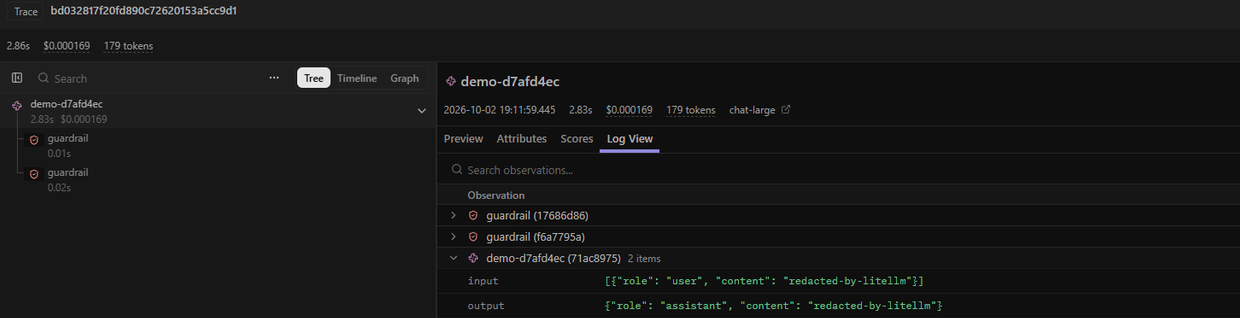
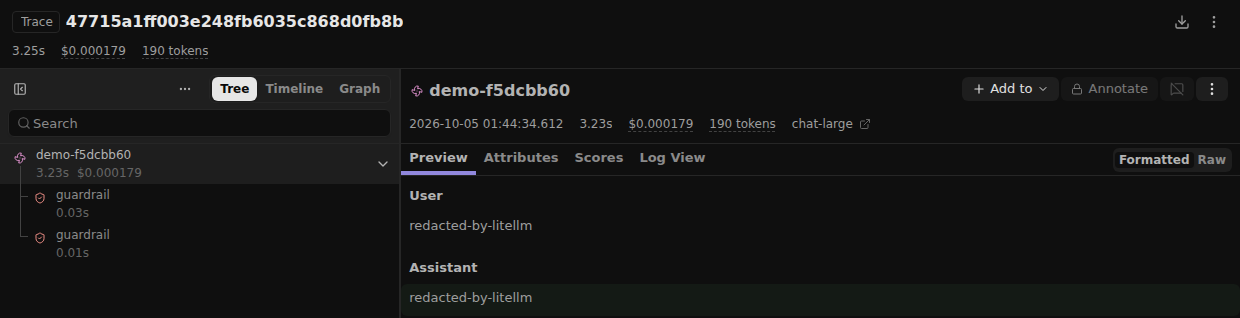
feat: customer service team for the demo (LAB-182)

diff --git a/tests/integration/test_pii_guardrail.py b/tests/integration/test_pii_guardrail.py
@@ -34,7 +34,7 @@ def test_the_prompt_reaches_the_model_with_markers_only(admin: httpx.Client):
 
 def test_the_answer_comes_back_with_the_real_values(team_client):
     mock = "Dossier de <PERSON_1>, <FR_ADDRESS_2>, virement sur <IBAN_CODE_3>, joignable au <PHONE_NUMBER_4>."
-    assert answer(team_client("baux"), user(DEMO), mock) == (
+    assert answer(team_client("support"), user(DEMO), mock) == (
         "Dossier de Marie Dupont, 12 rue de la Paix, 75002 Paris, virement sur FR76 3000 6000 0112 3456 7890 189, "
         "joignable au 06 12 34 56 78."
     )
@@ -42,15 +42,15 @@ def test_the_answer_comes_back_with_the_real_values(team_client):
 
 def test_two_people_in_two_messages_get_two_markers(team_client):
     messages = [
-        {"role": "user", "content": "Le bailleur est Jean Martin."},
+        {"role": "user", "content": "Le client est Jean Martin."},
         {"role": "assistant", "content": "Noté."},
-        {"role": "user", "content": "La locataire est Marie Dupont."},
+        {"role": "user", "content": "La conseillère est Marie Dupont."},
     ]
-    assert answer(team_client("baux"), messages, "<PERSON_1> loue à <PERSON_2>.") == "Jean Martin loue à Marie Dupont."
+    assert answer(team_client("support"), messages, "<PERSON_1> écrit à <PERSON_2>.") == "Jean Martin écrit à Marie Dupont."
 
 
 def test_a_streamed_answer_is_put_back_too(team_client):
-    stream = team_client("baux").chat.completions.create(
+    stream = team_client("support").chat.completions.create(
         model="chat-large", messages=user(DEMO), stream=True, extra_body={"mock_response": "Bonjour <PERSON_1> !"}
     )
     chunks = [chunk.choices[0].delta.content or "" for chunk in stream if chunk.choices]
@@ -72,4 +72,4 @@ def test_an_opted_out_team_can_mask_one_request(team_client):
 def test_a_required_team_cannot_opt_out_from_the_request(team_client):
     # The opt-out is read from the team metadata written by the admin, not from what the caller sends.
     spoofed = {"user_api_key_team_metadata": {"opted_out_global_guardrails": ["pii-fr"]}, "disable_global_guardrails": True}
-    assert answer(team_client("baux"), user(DEMO), "Bonjour <PERSON_1> !", metadata=spoofed) == "Bonjour Marie Dupont !"
+    assert answer(team_client("support"), user(DEMO), "Bonjour <PERSON_1> !", metadata=spoofed) == "Bonjour Marie Dupont !"

diff --git a/tests/integration/test_tracing.py b/tests/integration/test_tracing.py
@@ -79,13 +79,13 @@ def test_a_call_is_traced_to_the_project_of_its_team(team_client, team, alias):
 def test_a_streamed_call_is_priced_too(team_client):
     # A streamed call's trace carries the model behind the alias instead of the alias: it must get the same price.
     name = unique_name()
-    stream = team_client("baux").chat.completions.create(
+    stream = team_client("support").chat.completions.create(
         model="chat-large", messages=user("Bonjour"), stream=True, stream_options={"include_usage": True},
         extra_body={"metadata": {"generation_name": name}, "mock_response": "Bonjour !"},
     )
     usage = [chunk.usage for chunk in stream if chunk.usage][-1]
 
-    [generation] = traced("baux", name)
+    [generation] = traced("support", name)
     input_price, output_price = 0.0000005, 0.000002  # chat-large in config/litellm.yaml
     expected = usage.prompt_tokens * input_price + usage.completion_tokens * output_price
     assert generation["totalCost"] == pytest.approx(expected)
@@ -109,13 +109,13 @@ def test_traces_hold_no_message_and_no_personal_data(team_client):
     # keep the messages. The guardrail's own observation keeps the types and positions of what it masked.
     name = unique_name()
     mock = "Dossier de <PERSON_1>, virement sur <IBAN_CODE_3>."
-    response = call(team_client("baux"), "chat-large", name, DEMO, mock_response=mock).parse()
+    response = call(team_client("support"), "chat-large", name, DEMO, mock_response=mock).parse()
     assert "Marie Dupont" in response.choices[0].message.content
 
-    [generation] = traced("baux", name)
+    [generation] = traced("support", name)
     assert "redacted-by-litellm" in generation["input"]
     assert "redacted-by-litellm" in generation["output"]
-    trace = observations("baux", traceId=generation["traceId"])
+    trace = observations("support", traceId=generation["traceId"])
     for value in ("Marie", "Dupont", "rue de la Paix", "FR76", "06 12 34 56 78"):
         assert value not in json.dumps(trace)
     [guardrail] = [observation for observation in trace if observation["type"] == "GUARDRAIL"]

diff --git a/scripts/demo.py b/scripts/demo.py
@@ -1,6 +1,6 @@
 """Demo of the gateway, as a client team sees it: `just demo`.
 
-The lease team `baux` sends a message full of personal data, the model only gets markers, the answer comes back with
+The customer service team `support` sends a message full of personal data, the model only gets markers, the answer comes back with
 the real values, and the trace in Langfuse holds the team, the tokens and the cost, but no personal data.
 """
 
@@ -21,19 +21,19 @@ load_dotenv(Path(__file__).resolve().parents[1] / ".env")
 
 GATEWAY_URL = f"http://localhost:{os.environ.get('LITELLM_PORT', '4000')}"
 LANGFUSE_URL = f"http://localhost:{os.environ.get('LANGFUSE_PORT', '3100')}"
-TEAM, ALIAS = "baux", "chat-large"
+TEAM, ALIAS = "support", "chat-large"
 MESSAGE = (
-    "Bonjour, je suis Marie Dupont, locataire au 12 rue de la Paix, 75002 Paris. "
-    "Mon loyer sera désormais prélevé sur le compte FR76 3000 6000 0112 3456 7890 189. "
+    "Bonjour, je suis Marie Dupont. Ma commande n'est jamais arrivée au 12 rue de la Paix, 75002 Paris. "
+    "Pouvez-vous me rembourser sur le compte FR76 3000 6000 0112 3456 7890 189 ? "
     "Vous pouvez me joindre au 06 12 34 56 78."
 )
 TASK = (
-    "Rédige un accusé de réception en deux phrases, "
-    "qui reprend le nom de la locataire, son adresse et le nouveau compte."
+    "Écris la réponse du service client en deux phrases courtes : "
+    "Bonjour suivi du nom de la cliente, puis la confirmation du remboursement sur son compte."
 )
 # Small models sometimes drop the angle brackets, and a marker that does not match stays in the answer.
 SYSTEM = (
-    "Tu es l'assistant d'une agence immobilière. "
+    "Tu es l'assistant d'un service client. "
     "Recopie les marqueurs entre chevrons tels quels, par exemple <PERSON_1>."
 )
 

diff --git a/tests/integration/helpers.py b/tests/integration/helpers.py
@@ -25,7 +25,7 @@ PRESIDIO_ANONYMIZER_URL = f"http://localhost:{os.environ.get('PRESIDIO_ANONYMIZE
 LANGFUSE_URL = f"http://localhost:{os.environ.get('LANGFUSE_PORT', '3100')}"
 LANGFUSE_KEYS = (os.environ["LANGFUSE_PUBLIC_KEY"], os.environ["LANGFUSE_SECRET_KEY"])
 LANGFUSE_ADMIN = (os.environ["LANGFUSE_ADMIN_EMAIL"], os.environ["LANGFUSE_ADMIN_PASSWORD"])
-TEAMS = ("f1", "mj", "baux")
+TEAMS = ("f1", "mj", "baux", "support")
 TEAM_KEYS = {team: os.environ[f"TEAM_KEY_{team.upper()}"] for team in TEAMS}
 # API keys of each Langfuse project: Gateway, then one per team (config/tenants.yaml).
 LANGFUSE_PROJECT_KEYS = {"gateway": LANGFUSE_KEYS} | {

diff --git a/tests/integration/test_routing.py b/tests/integration/test_routing.py
@@ -14,6 +14,6 @@ def test_chat_alias_answers(team_client, alias):
 
 
 def test_embed_alias_returns_768_dimensions(team_client):
-    response = team_client("f1").embeddings.create(model="embed", input="Le locataire a payé son loyer en retard.")
+    response = team_client("f1").embeddings.create(model="embed", input="Ma commande est arrivée avec trois jours de retard.")
 
     assert len(response.data[0].embedding) == 768

diff --git a/tests/integration/test_tenants.py b/tests/integration/test_tenants.py
@@ -12,6 +12,7 @@ TEAM_ACCESS = [
     ("f1", "chat-small", None),
     ("mj", "chat-small", "embed"),
     ("baux", "embed", "chat-small"),
+    ("support", "chat-small", "embed"),
 ]
 
 

diff --git a/README.md b/README.md
@@ -11,11 +11,11 @@ It runs on a laptop with Docker Compose and self-hosted models only: no prompt l
 
 ![Demo: a message with a name, an address, an IBAN and a phone number goes through the gateway; the model only gets markers, the answer comes back with the real values, and the Langfuse trace holds the cost but no personal data](docs/demo.gif)
 
-*`just demo`: the lease team sends a message full of personal data. Recorded on a laptop CPU, model `qwen2.5:1.5b`.*
+*`just demo`: a customer writes to the customer service team with her name, address, IBAN and phone number. Recorded on CPU (i7-14700KF), model `qwen2.5:1.5b`.*
 
-![The same call in Langfuse, as the lease team's lead sees it: duration, cost, tokens and alias, one span per guardrail run, and input and output redacted](docs/langfuse-trace.png)
+![The same call in Langfuse, as the customer service team's lead sees it: duration, cost, tokens and alias, one span per guardrail run, and input and output redacted](docs/langfuse-trace.png)
 
-*The same call in Langfuse, signed in as the lease team's lead: cost, tokens and alias are there, the messages are not.*
+*The same call in Langfuse, signed in as the customer service team's lead: cost, tokens and alias are there, the messages are not.*
 
 | At a glance | Measured |
 | -- | -- |
@@ -92,7 +92,7 @@ from openai import OpenAI
 
 client = OpenAI(base_url="http://localhost:4000", api_key="sk-local-dev-team-f1")
 client.chat.completions.create(model="chat-small", messages=[{"role": "user", "content": "Hello"}])
-client.embeddings.create(model="embed", input="Le locataire a payé son loyer en retard.")
+client.embeddings.create(model="embed", input="Ma commande est arrivée avec trois jours de retard.")
 ```
 
 Langfuse's UI is on `http://localhost:3100`: sign in with `LANGFUSE_ADMIN_EMAIL` and `LANGFUSE_ADMIN_PASSWORD` from `.env`, or as a team lead (see [Tracing with Langfuse](#tracing-with-langfuse)). To contribute, install the git hooks (requires [pre-commit](https://pre-commit.com/)) with `just hooks`, and run `just lint`. `just demo-record` records the GIF again from [`docs/demo.tape`](docs/demo.tape), with [vhs](https://github.com/charmbracelet/vhs), ttyd and ffmpeg installed. Run `just` alone to list every recipe.
@@ -108,7 +108,7 @@ Teams call **usage aliases**, never model names. The platform decides which mode
 | `embed` | Embeddings, multilingual (French included), 768 dimensions | `granite-embedding:278m` | `ollama` | 30 s |
 
 **Fallback.** If `chat-large` fails or times out, the gateway answers with `chat-small`. The response header `x-litellm-model-group` says which alias actually served the call, and the logs show `Falling back to model_group = chat-small`.
-Measured with `just test -k fallback` on a laptop CPU:
+Measured with `just test -k fallback` on CPU (i7-14700KF):
 
 | Situation | Time to answer through `chat-small` |
 | -- | -- |
@@ -137,10 +137,11 @@ The master key stays with the platform team: it creates teams and keys, and no a
 | `f1` | F1 strategy analyst (agent with RAG) | `chat-small`, `chat-large`, `embed` | $10 / 30 days | 60 requests and 100k tokens per minute | Optional |
 | `mj` | Game master assistant | `chat-small`, `chat-large` | $5 / 30 days | 30 requests and 50k tokens per minute | Optional |
 | `baux` | Lease compliance checker | `chat-large`, `embed` | $5 / 30 days | 20 requests and 50k tokens per minute | Required |
+| `support` | Customer service assistant | `chat-small`, `chat-large` | $5 / 30 days | 30 requests and 50k tokens per minute | Required |
 
 `just gateway-up` applies the file through [`scripts/bootstrap_tenants.py`](scripts/bootstrap_tenants.py), and `just tenants` applies it again after an edit, without restarting anything.
 The script is idempotent: it creates what is missing, updates what exists, and never deletes a team.
-Key values come from `.env` (`TEAM_KEY_F1`, `TEAM_KEY_MJ`, `TEAM_KEY_BAUX`); on the cluster they will come from a secret manager.
+Key values come from `.env` (`TEAM_KEY_F1`, `TEAM_KEY_MJ`, `TEAM_KEY_BAUX`, `TEAM_KEY_SUPPORT`); on the cluster they will come from a secret manager.
 
 A team that steps out of its limits gets an explicit error, and only that team is blocked:
 
@@ -157,19 +158,19 @@ The budget blocks the call right after the one that crossed it: LiteLLM counts s
 
 ## Personal data anonymization (Presidio)
 
-The gateway masks French personal data before the model sees it, and puts it back into the answer. On a `baux` request, as sent to Ollama (LiteLLM debug log):
+The gateway masks French personal data before the model sees it, and puts it back into the answer. On a `support` request, as sent to Ollama (LiteLLM debug log):
 
 | Step | Text |
 | -- | -- |
-| Caller sends | *Le bailleur est Jean Martin, domicilié au 12 rue de la Paix, 75002 Paris.* then *La locataire est Marie Dupont, IBAN FR76 3000 6000 0112 3456 7890 189. Jean Martin est-il joignable ?* |
-| Model receives | *Le bailleur est `<PERSON_1>`, domicilié au `<FR_ADDRESS_2>`.* then *La locataire est `<PERSON_3>`, `<IBAN_CODE_4>`. `<PERSON_1>` est-il joignable ?* |
+| Caller sends | *Le client est Jean Martin, domicilié au 12 rue de la Paix, 75002 Paris.* then *Sa commande est au nom de Marie Dupont, IBAN FR76 3000 6000 0112 3456 7890 189. Jean Martin est-il joignable ?* |
+| Model receives | *Le client est `<PERSON_1>`, domicilié au `<FR_ADDRESS_2>`.* then *Sa commande est au nom de `<PERSON_3>`, `<IBAN_CODE_4>`. `<PERSON_1>` est-il joignable ?* |
 | Caller gets | The model's answer, with every marker replaced by its value |
 
 ### The pii-fr guardrail
 
-The guardrail is LiteLLM's [Presidio integration](https://docs.litellm.ai/docs/proxy/guardrails/pii_masking_v2), set up in [`config/litellm.yaml`](config/litellm.yaml): French analysis, the entities to mask (names, places, addresses, emails, phones, IBAN, cards, crypto wallets, IP addresses, NIR, tax numbers) and a score threshold of 0.4. Dates stay in clear: a lease cannot be checked without them, and they identify nobody on their own.
+The guardrail is LiteLLM's [Presidio integration](https://docs.litellm.ai/docs/proxy/guardrails/pii_masking_v2), set up in [`config/litellm.yaml`](config/litellm.yaml): French analysis, the entities to mask (names, places, addresses, emails, phones, IBAN, cards, crypto wallets, IP addresses, NIR, tax numbers) and a score threshold of 0.4. Dates stay in clear: an order or a delivery cannot be handled without them, and they identify nobody on their own.
 
-**Two fixes to LiteLLM's markers.** LiteLLM 1.83.14 numbers markers in a way that breaks on real French text, as tested on this stack: overlapping detections (an address and the city inside it) were spliced into `FR_ADDRESS_2ON_4`, and two people in two messages both became `<PERSON_1>`, so the answer named the tenant as the landlord. Both bugs are open upstream ([#42130](https://github.com/BerriAI/litellm/issues/42130), [#31959](https://github.com/BerriAI/litellm/issues/31959)). [`guardrails/presidio_markers.py`](guardrails/presidio_markers.py) subclasses LiteLLM's guardrail and overrides only the method that builds the markers: overlapping detections are merged into one, and numbers run across the request. See [ADR-015](docs/adr/015-presidio-marker-fixes.md).
+**Two fixes to LiteLLM's markers.** LiteLLM 1.83.14 numbers markers in a way that breaks on real French text, as tested on this stack: overlapping detections (an address and the city inside it) were spliced into `FR_ADDRESS_2ON_4`, and two people in two messages both became `<PERSON_1>`, so the answer put one person's name in place of the other's. Both bugs are open upstream ([#42130](https://github.com/BerriAI/litellm/issues/42130), [#31959](https://github.com/BerriAI/litellm/issues/31959)). [`guardrails/presidio_markers.py`](guardrails/presidio_markers.py) subclasses LiteLLM's guardrail and overrides only the method that builds the markers: overlapping detections are merged into one, and numbers run across the request. See [ADR-015](docs/adr/015-presidio-marker-fixes.md).
 
 **Per team.** Assigning a guardrail to a team is a LiteLLM Enterprise feature, so the gateway uses what the open-source version offers: `pii-fr` runs on every request (`default_on`), and a team set to `pii_masking: optional` in `config/tenants.yaml` is opted out through its metadata, which only the admin API writes. A required team cannot opt out from the request: metadata sent by the caller is ignored.
 
@@ -275,7 +276,7 @@ A pattern alone is not enough when a check digit exists: a match whose key is wr
 | `CREDIT_CARD` | `CardRecognizer` | Presidio's card recognizer plus the Mastercard 2-series (2221 to 2720), which it misses | Luhn check digit |
 | `URL` | `UrlOutsideEmailRecognizer` | Presidio's URL recognizer | No longer reports the domain of an email address |
 
-Context words raise a score when they appear in the 5 words before a match: in a lease, *domiciliée 12 rue de la Paix, 75002 Paris* scores 0.95 instead of 0.6, and *joignable au 06 12 34 56 78* 0.75 instead of 0.4.
+Context words raise a score when they appear in the 5 words before a match: in a letter, *domiciliée 12 rue de la Paix, 75002 Paris* scores 0.95 instead of 0.6, and *joignable au 06 12 34 56 78* 0.75 instead of 0.4.
 The spaCy model still makes mistakes of its own, measured in the [benchmark](#how-well-it-works): it misses city names without context and sometimes labels an email or `FR76` as a place. French dates (*12 mars 1985*) are not detected either; the guardrail does not mask dates anyway.
 
 Memory of the Analyzer, measured with `docker stats` after 30 requests:
@@ -287,7 +288,7 @@ Memory of the Analyzer, measured with `docker stats` after 30 requests:
 | `fr_core_news_lg` + `en_core_web_lg` (this stack) | 1.6 GiB |
 
 English costs 570 MiB more; it stays so that prompts in English, such as F1 data, are still analyzed. The container is limited to 2 GiB.
-It starts in about 6 seconds once the image is built, and analyzes a 30-word French sentence in about 6 ms on a laptop CPU.
+It starts in about 6 seconds once the image is built, and analyzes a 30-word French sentence in about 6 ms on CPU (i7-14700KF).
 
 ## Tracing with Langfuse
 
@@ -328,7 +329,7 @@ LiteLLM traces every call, successful or failed (level `ERROR`), a few seconds a
 
 | Field | Example |
 | -- | -- |
-| Team and key | `user_api_key_team_id: baux`, `user_api_key_team_alias: Lease compliance checker`, `user_api_key_alias: baux-app` |
+| Team and key | `user_api_key_team_id: support`, `user_api_key_team_alias: Customer service assistant`, `user_api_key_alias: support-app` |
 | Alias (the model of the trace) | `chat-large`; a streamed call or a fallback shows the model behind it instead, `qwen2.5:1.5b` |
 | Tokens | `input: 36, output: 3` |
 | Cost | `$0.000045`, the internal price of the alias (ADR-014): the same amount LiteLLM charged the team's budget and returned in `x-litellm-response-cost` |
@@ -336,7 +337,7 @@ LiteLLM traces every call, successful or failed (level `ERROR`), a few seconds a
 | What the guardrail masked | `masked_entity_count: {PERSON: 2, FR_ADDRESS: 1, IBAN_CODE: 1, PHONE_NUMBER: 1}`, types and positions only |
 | Messages | `redacted-by-litellm` |
 
-**No messages in the traces.** The `pii-fr` guardrail puts the real values back into the answer before LiteLLM logs it, so the first trace of a lease held `Bonjour Marie Dupont` in clear. And a team that opted out of masking can still send personal data. `turn_off_message_logging` in `config/litellm.yaml` removes the prompts and answers from every trace. LiteLLM's switch per team or per request is ignored by `langfuse_otel` in 1.83.14, so the setting is global. A caller can still name its calls with `metadata.generation_name` and group them with `metadata.session_id`.
+**No messages in the traces.** The `pii-fr` guardrail puts the real values back into the answer before LiteLLM logs it, so the very first trace held `Bonjour Marie Dupont` in clear. And a team that opted out of masking can still send personal data. `turn_off_message_logging` in `config/litellm.yaml` removes the prompts and answers from every trace. LiteLLM's switch per team or per request is ignored by `langfuse_otel` in 1.83.14, so the setting is global. A caller can still name its calls with `metadata.generation_name` and group them with `metadata.session_id`.
 
 **Cost.** Langfuse prices the tokens itself, from a price per alias in each project. `scripts/bootstrap_langfuse.py` creates those prices from the internal prices of `config/litellm.yaml`, so a price changes in one place: edit the file, then run `just gateway-reload` and `just tenants`. Each price also matches the model behind its alias, which streamed and fallback calls carry. After the whole test suite, the cost summed per project in Langfuse matched each team's spend in LiteLLM to the last digit ($0.00022764 for `baux`).
 
@@ -347,7 +348,7 @@ Each client team has its own organization and project in Langfuse, and LiteLLM s
 | Account | Sees | Role |
 | -- | -- | -- |
 | `LANGFUSE_ADMIN_EMAIL` (platform team) | Gateway and every team's project | Owner |
-| `f1-lead@llmops.local`, `mj-lead@llmops.local`, `baux-lead@llmops.local` | Its team's project only | Viewer |
+| `f1-lead@llmops.local`, `mj-lead@llmops.local`, `baux-lead@llmops.local`, `support-lead@llmops.local` | Its team's project only | Viewer |
 
 A team lead signs in with the password `LANGFUSE_VIEWER_PASSWORD_<TEAM>` from `.env`. They see their team's calls, costs per day and per alias, latency and errors. They do not see the gateway's keys and budgets, which stay in LiteLLM with the platform team.
 
@@ -367,10 +368,10 @@ Every promise of the gateway is an integration test in [`tests/integration/`](te
 | -- | -- |
 | `test_routing.py` | Each alias answers, served by its own model (header `x-litellm-model-group`); `embed` returns 768 dimensions |
 | `test_tenants.py` | Allowed and refused aliases per team (401), rate limit (429), budget (400), isolation from other teams, idempotent bootstrap |
-| `test_pii_guardrail.py` | The prompt reaches the model with markers only, the answer (streamed or not) comes back with the real values, two people in two messages get two markers, `f1` is not masked unless it asks, `baux` cannot opt out from the request |
+| `test_pii_guardrail.py` | The prompt reaches the model with markers only, the answer (streamed or not) comes back with the real values, two people in two messages get two markers, `f1` is not masked unless it asks, `support` cannot opt out from the request |
 | `test_presidio.py` | The Analyzer finds every French identifier in a lease, context words raise the scores, no identifier comes out of ordinary numbers (amounts, dates, lap numbers), English still works; the Anonymizer replaces what was found |
 | `test_langfuse.py` | The UI answers, the Gateway project and its keys exist from the first start, a wrong key is refused, the admin can sign in and nobody can sign up, a span sent over OTLP is read back after going through S3, Redis, the worker and ClickHouse |
-| `test_tracing.py` | A call of each team (each alias) reaches its team's project and no other, with its team, key, alias, tokens, latency and the cost LiteLLM charged; a call without a team reaches Gateway; a failed call is traced as an error; a masked lease leaves no personal data in its trace; each lead sees their team's project only, as a viewer; a second bootstrap duplicates nothing |
+| `test_tracing.py` | A call of each team (each alias) reaches its team's project and no other, with its team, key, alias, tokens, latency and the cost LiteLLM charged; a call without a team reaches Gateway; a failed call is traced as an error; a masked customer message leaves no personal data in its trace; each lead sees their team's project only, as a viewer; a second bootstrap duplicates nothing |
 | `test_no_leak.py` | The 100 annotated texts of the benchmark reach the model with only the 3 words Presidio is known to miss, and leave no personal data in the Langfuse traces or in the logs of LiteLLM and Ollama |
 | `test_fallback.py` | With `ollama-large` stopped, `chat-large` is served by `chat-small` within 30 s and the logs show the fallback |
 

diff --git a/CLAUDE.md b/CLAUDE.md
@@ -20,7 +20,7 @@ Routing lives in `config/litellm.yaml`: callers only use usage aliases (`chat-sm
 - `LITELLM_LOG=INFO` is what makes retries and fallbacks visible in the logs.
 - Every alias has `input_cost_per_token` / `output_cost_per_token`: LiteLLM knows no price for Ollama models, and without one spend stays at $0 so budgets never trigger (ADR-014). A new alias needs a price too.
 
-Client teams (`f1`, `mj`, `baux`) live in `config/tenants.yaml`: aliases allowed per team, budget per team, rpm/tpm limits per key. `scripts/bootstrap_tenants.py` applies the file through the LiteLLM admin API; it runs in the `tenants-bootstrap` one-shot service, which reuses the LiteLLM image. Things to keep in mind:
+Client teams (`f1`, `mj`, `baux`, `support`) live in `config/tenants.yaml`: aliases allowed per team, budget per team, rpm/tpm limits per key. `scripts/bootstrap_tenants.py` applies the file through the LiteLLM admin API; it runs in the `tenants-bootstrap` one-shot service, which reuses the LiteLLM image. Things to keep in mind:
 
 - The service sits in the `bootstrap` profile and runs with `docker compose run`, because `docker compose up --wait` fails on any container that exits, even with code 0, when no other service depends on it.
 - Key values come from `.env` (`TEAM_KEY_*`) and are set with the `key` field of `/key/generate`, which makes re-runs converge instead of creating new keys. Keys have no model list: they inherit their team's.
@@ -72,7 +72,7 @@ Tasks run with [just](https://just.systems/) (`justfile`, which loads `.env`); t
 - `just test-unit`: only `tests/unit/`, the recognizer and guardrail class tests; no stack needed, about 2 seconds.
 - `just gateway-bench`: start the stack, then benchmark the anonymization into `benchmarks/results.md` (about 30 minutes on CPU; `just gateway-bench --skip-llm` for Presidio and latency only, about 10 seconds).
 - `just smoke`: only `tests/integration/test_routing.py`, a quick check that every alias answers after `just gateway-reload`.
-- `just demo`: `scripts/demo.py`, one masked call of the `baux` team on `chat-large`, then its Langfuse trace; it is what the README's GIF shows. `just demo-record` records `docs/demo.gif` again from `docs/demo.tape` (needs vhs, ttyd and ffmpeg, and the stack up). Re-record after a change to the demo's output.
+- `just demo`: `scripts/demo.py`, one masked call of the `support` team (customer service) on `chat-large`, then its Langfuse trace; it is what the README's GIF shows. `just demo-record` records `docs/demo.gif` again from `docs/demo.tape` (needs vhs, ttyd and ffmpeg, and the stack up). Re-record after a change to the demo's output.
 - `just tenants`: apply `config/tenants.yaml` to the running gateway (also run by `just gateway-up`).
 - `just gateway-reload`: restart LiteLLM after a change to `config/litellm.yaml`.
 - `just gateway-down`: stop the stack; `just gateway-down --volumes` also deletes the databases, the Langfuse traces and the models.
